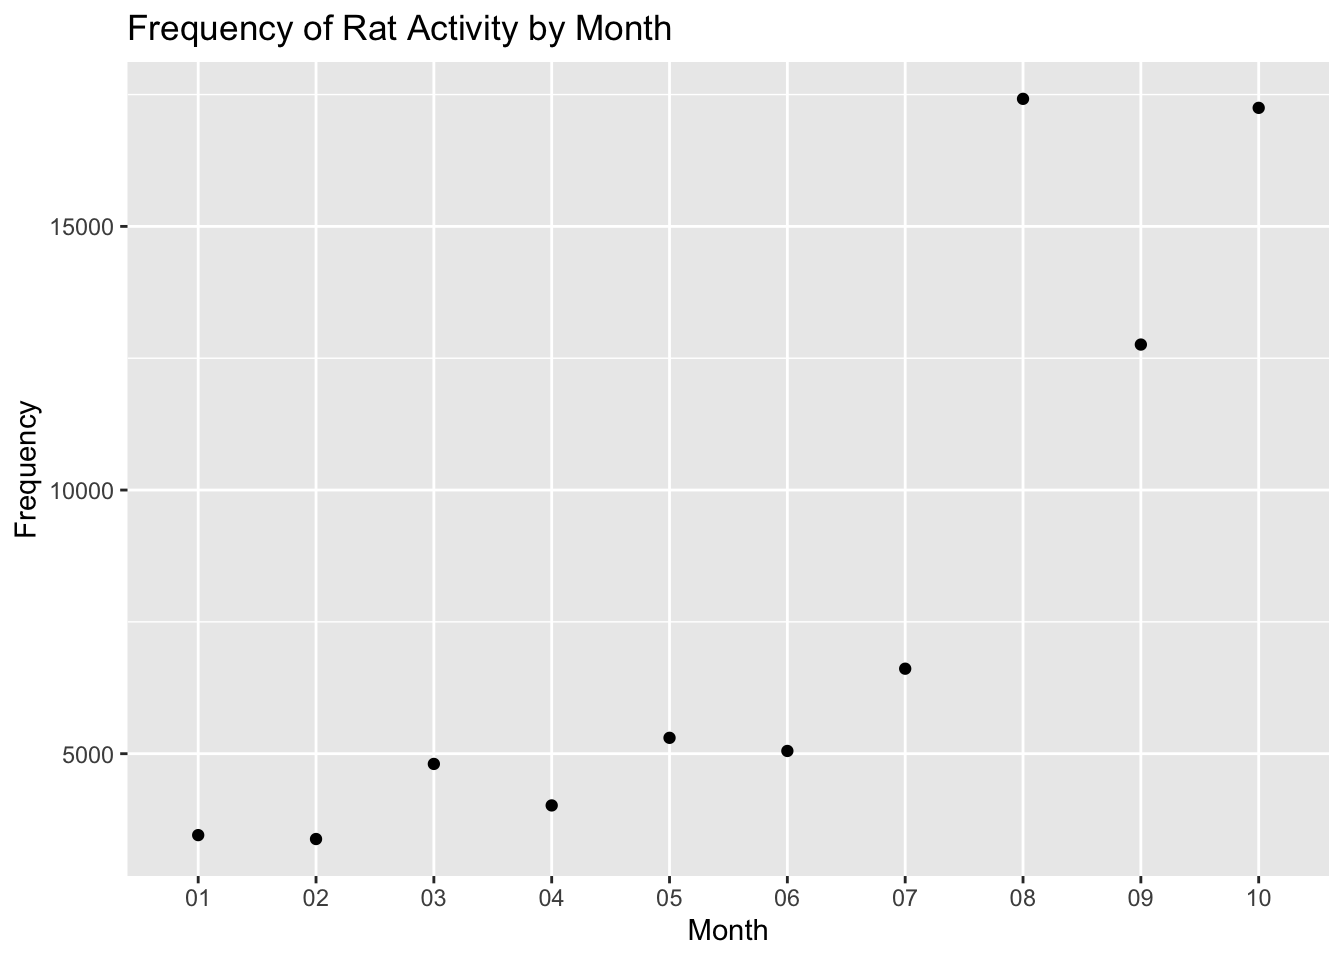
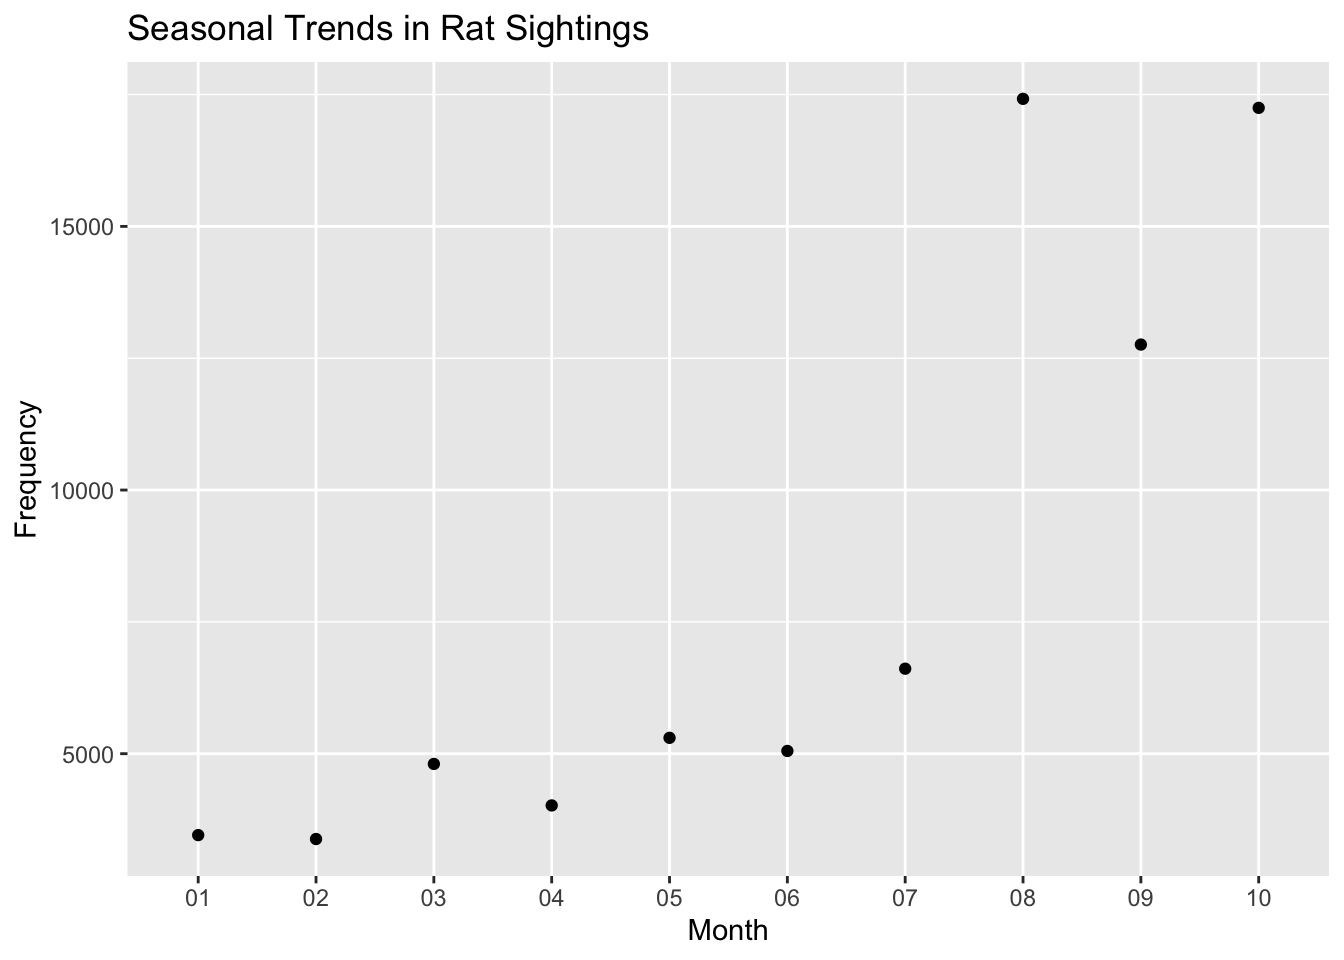
graph descriptions drafted

Changed region(s): [[0.0938, 0.0, 0.5, 0.0625]]

diff --git a/visualizations.html b/visualizations.html
@@ -276,35 +276,6 @@ $(document).ready(function () {
 </div>
 
 
-<p>Questions: wynter quinn laylah</p>
-<ol style="list-style-type: decimal">
-<li>What is the overall frequency of rat sightings?
-<ol style="list-style-type: lower-alpha">
-<li>Bar Chart or Histogram of rat frequency for each month</li>
-</ol></li>
-<li>What is the distribution of rat sightings across different boroughs
-in NYC?
-<ol style="list-style-type: lower-alpha">
-<li>Bar Chart comparing total number of rat sightings in each borough
-using facet wrap</li>
-</ol></li>
-<li>Are there any seasonal trends or patterns in rat sightings?
-<ol style="list-style-type: lower-alpha">
-<li>Line Graph to display the seasonal variation in rat sightings</li>
-</ol></li>
-<li>Is there any correlation between monthly collection of garbage
-tonnages that the NYC Department of Sanitation collects and the
-prevalence of rat sightings?
-<ol style="list-style-type: lower-alpha">
-<li>Scatter Plot of monthly garbage tonnage against number of rat
-sightings</li>
-<li>Include line of best fit</li>
-</ol></li>
-<li>Which borough has the most monthly reported rat sightings?
-<ol style="list-style-type: lower-alpha">
-<li>Bar Chart</li>
-</ol></li>
-</ol>
 <div id="loading-data-sets" class="section level1">
 <h1>Loading Data Sets</h1>
 <pre class="r"><code>dsny_df &lt;- read_csv(&quot;data/DSNY_Monthly_Tonnage_Data_20231108.csv&quot;) </code></pre>
@@ -376,6 +347,12 @@ ggplot(rat_activity_counts, aes(x = borough, y = count)) +
        y = &quot;Frequency&quot;) + 
   scale_y_continuous(labels = scales::comma_format(scale = 1e+0))</code></pre>
 <p><img src="visualizations_files/figure-html/unnamed-chunk-2-1.png" width="672" /></p>
+<p>This graph illustrates the frequency of rat activity in each borough
+of New York City. Brooklyn has the most rat activity, with over 300,000
+confirmed rat activity sightings. Staten Island has the least amount of
+rat activity, with only 990 confirmed rat activity sightings. Overall,
+this graph gives us an idea of how severe the rat problem is in each
+borough of the city.</p>
 </div>
 <div id="table-2" class="section level2">
 <h2>Table 2</h2>
@@ -392,17 +369,27 @@ ggplot(rat_activity_counts, aes(x = month, y = count)) +
   labs(title = &quot;Frequency of Rat Activity by Month&quot;,
        x = &quot;Month&quot;,
        y = &quot;Frequency&quot;) + 
-  scale_y_continuous(labels = scales::comma_format(scale = 1e+0))</code></pre>
+  scale_y_continuous(labels = scales::comma_format(scale = 1e+0)) </code></pre>
 <p><img src="visualizations_files/figure-html/unnamed-chunk-3-1.png" width="672" /></p>
+<p>This graph illustrates the frequency of rat activity across New York
+City by month in 2023, up to October. The rat frequency stays relatively
+consistent between January and June, but rises significantly from July
+to October. This could be because the environment in New York from July
+to October is the most favorable for rat survival.</p>
 </div>
 <div id="table-3" class="section level2">
 <h2>Table 3</h2>
 <pre class="r"><code>ggplot(rat_activity_counts, aes(x = month, y = count)) + 
   geom_point() +
-  labs(title = &quot;Frequency of Rat Activity by Month&quot;,
+  labs(title = &quot;Seasonal Trends in Rat Sightings&quot;,
        x = &quot;Month&quot;,
        y = &quot;Frequency&quot;)</code></pre>
 <p><img src="visualizations_files/figure-html/unnamed-chunk-4-1.png" width="672" /></p>
+<p>This graph illustrates the seasonal trends in rat sightings in New
+York City. Supported by the graph above, rat sightings are significantly
+lower in January to June compared to July to October. This suggests that
+rats are more active in the warmer months compared to the colder
+months.</p>
 </div>
 <div id="table-4" class="section level2">
 <h2>Table 4</h2>
@@ -415,10 +402,13 @@ ggplot(rat_activity_counts, aes(x = month, y = count)) +
 ## `.groups` argument.</code></pre>
 <pre class="r"><code>ggplot(rat_activity_counts, aes(x = month, y = refusetonscollected, color = count)) +
   geom_boxplot(color=&quot;red&quot;,fill=&quot;orange&quot;) +
-  labs(title = &quot;Correlation between Trash Tonnage and Rat Sightings by Month&quot;,
+  labs(title = &quot;Relationship Between Trash Tonnage and Rat Sightings by Month&quot;,
        x = &quot;Trash Collected (by Tonnage)&quot;,
        y = &quot;Rat Sightings&quot;) </code></pre>
 <p><img src="visualizations_files/figure-html/unnamed-chunk-5-1.png" width="672" /></p>
+<p>This graph illustrates a proposed relationship between trash tonnage
+and rat sightings. Our group hypothesized that where there is more trash
+collected, there will be a higher rat presence.</p>
 </div>
 <div id="transit-app-graph" class="section level2">
 <h2>Transit App Graph</h2>
@@ -438,6 +428,10 @@ ggplot(rat_activity_counts, aes(x = month, y = count)) +
   theme(axis.text.x = element_text(angle = 60, hjust = 1))</code></pre>
 <pre><code>## `geom_smooth()` using method = &#39;loess&#39; and formula = &#39;y ~ x&#39;</code></pre>
 <p><img src="visualizations_files/figure-html/unnamed-chunk-6-1.png" width="672" /></p>
+<p>This graph illustrates how many rat sightings were recorded in
+various subway stations in each borough. In this case, Manhattan has the
+most rat sightings compared to the other boroughs and Staten Island
+still has the least.</p>
 </div>
 </div>
 
